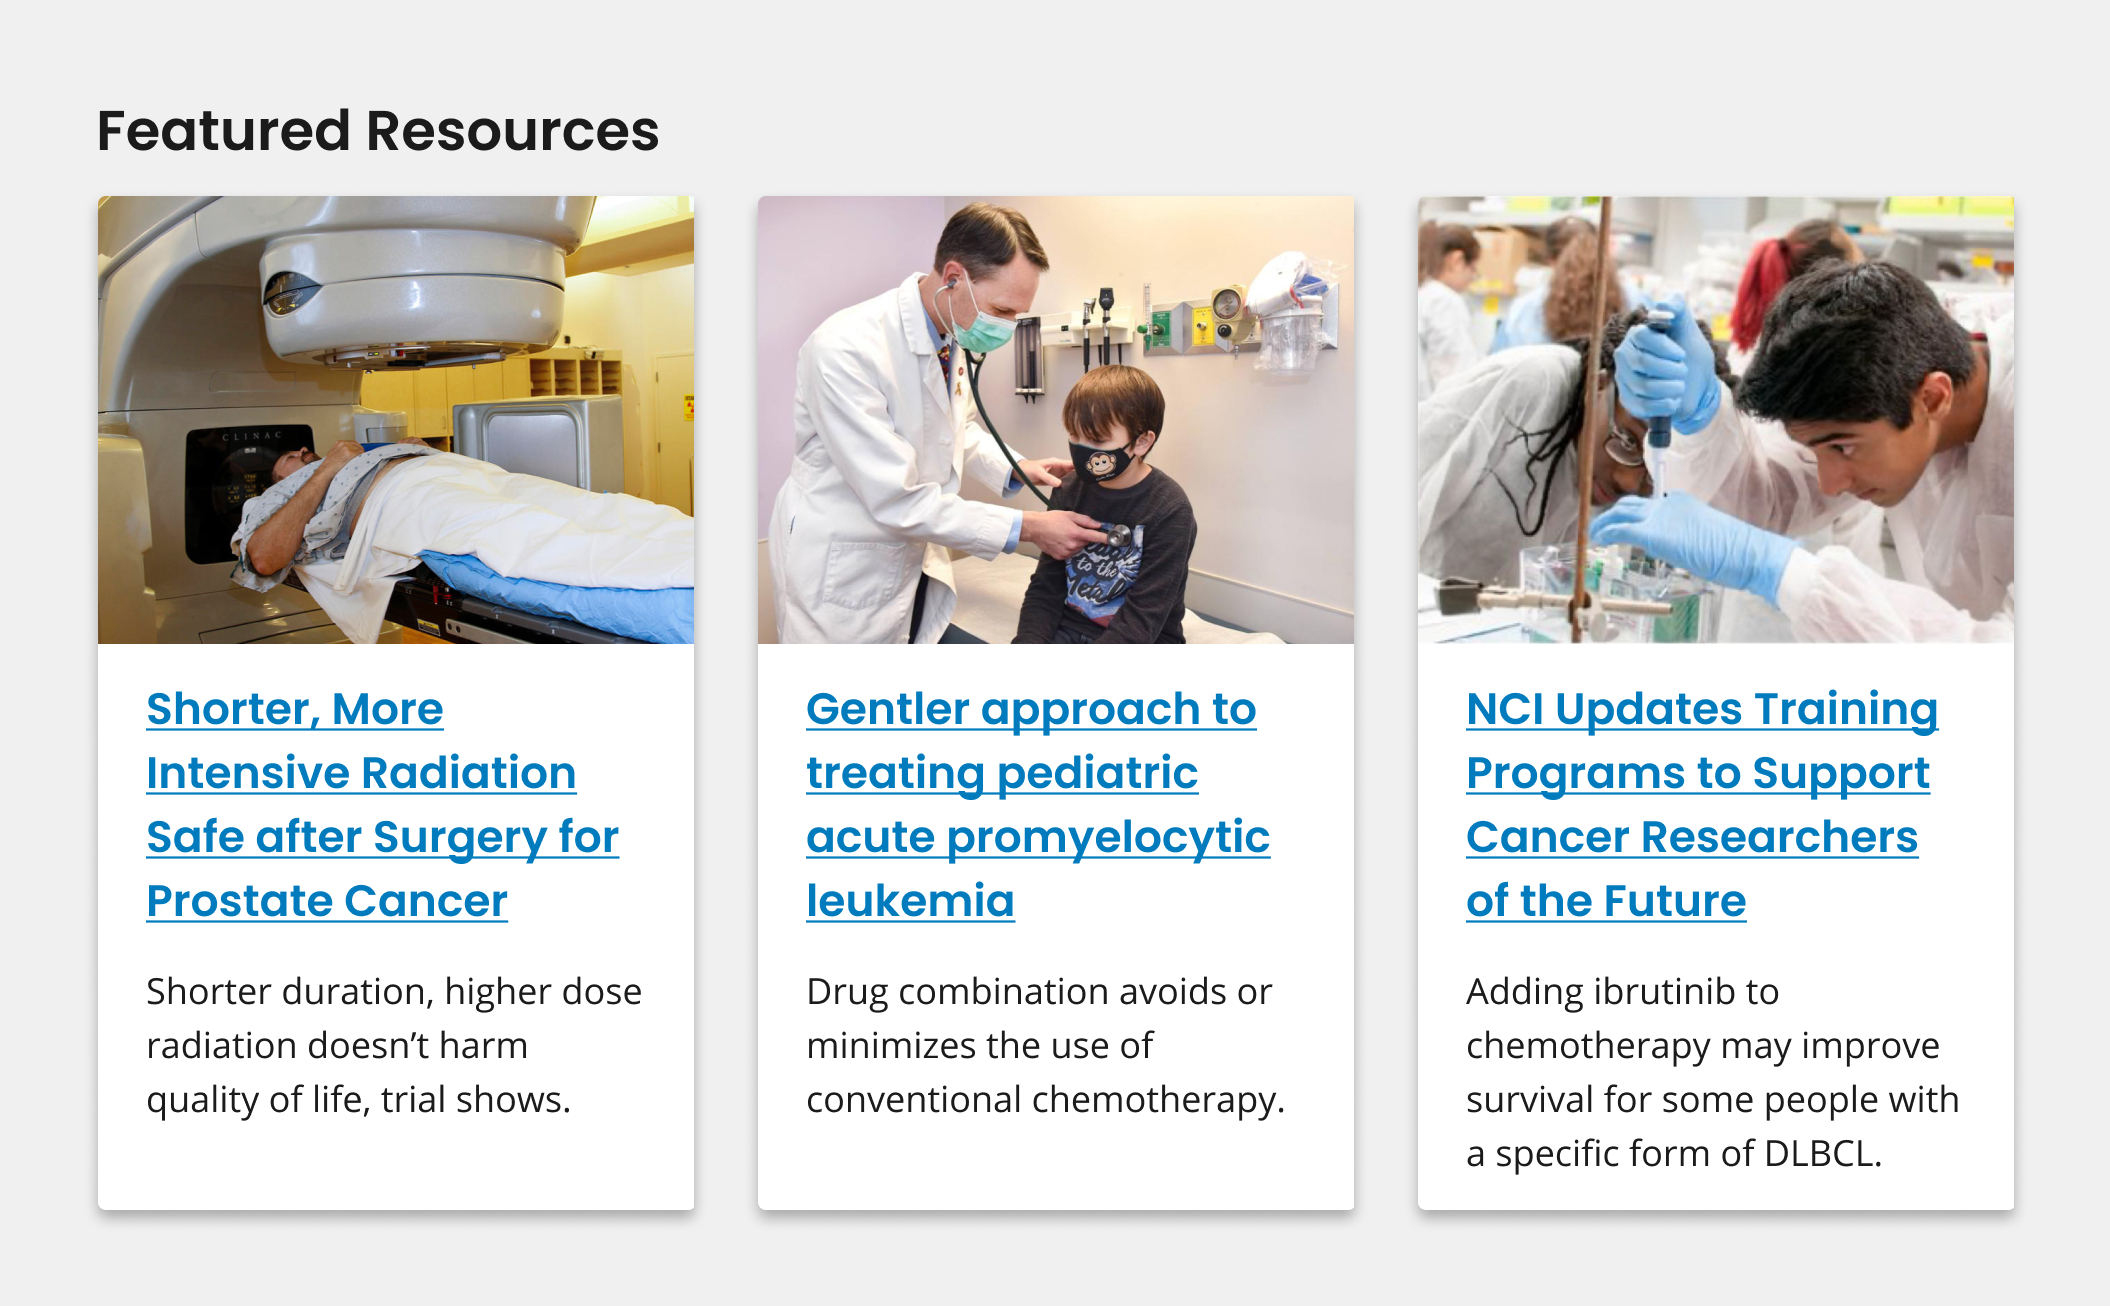
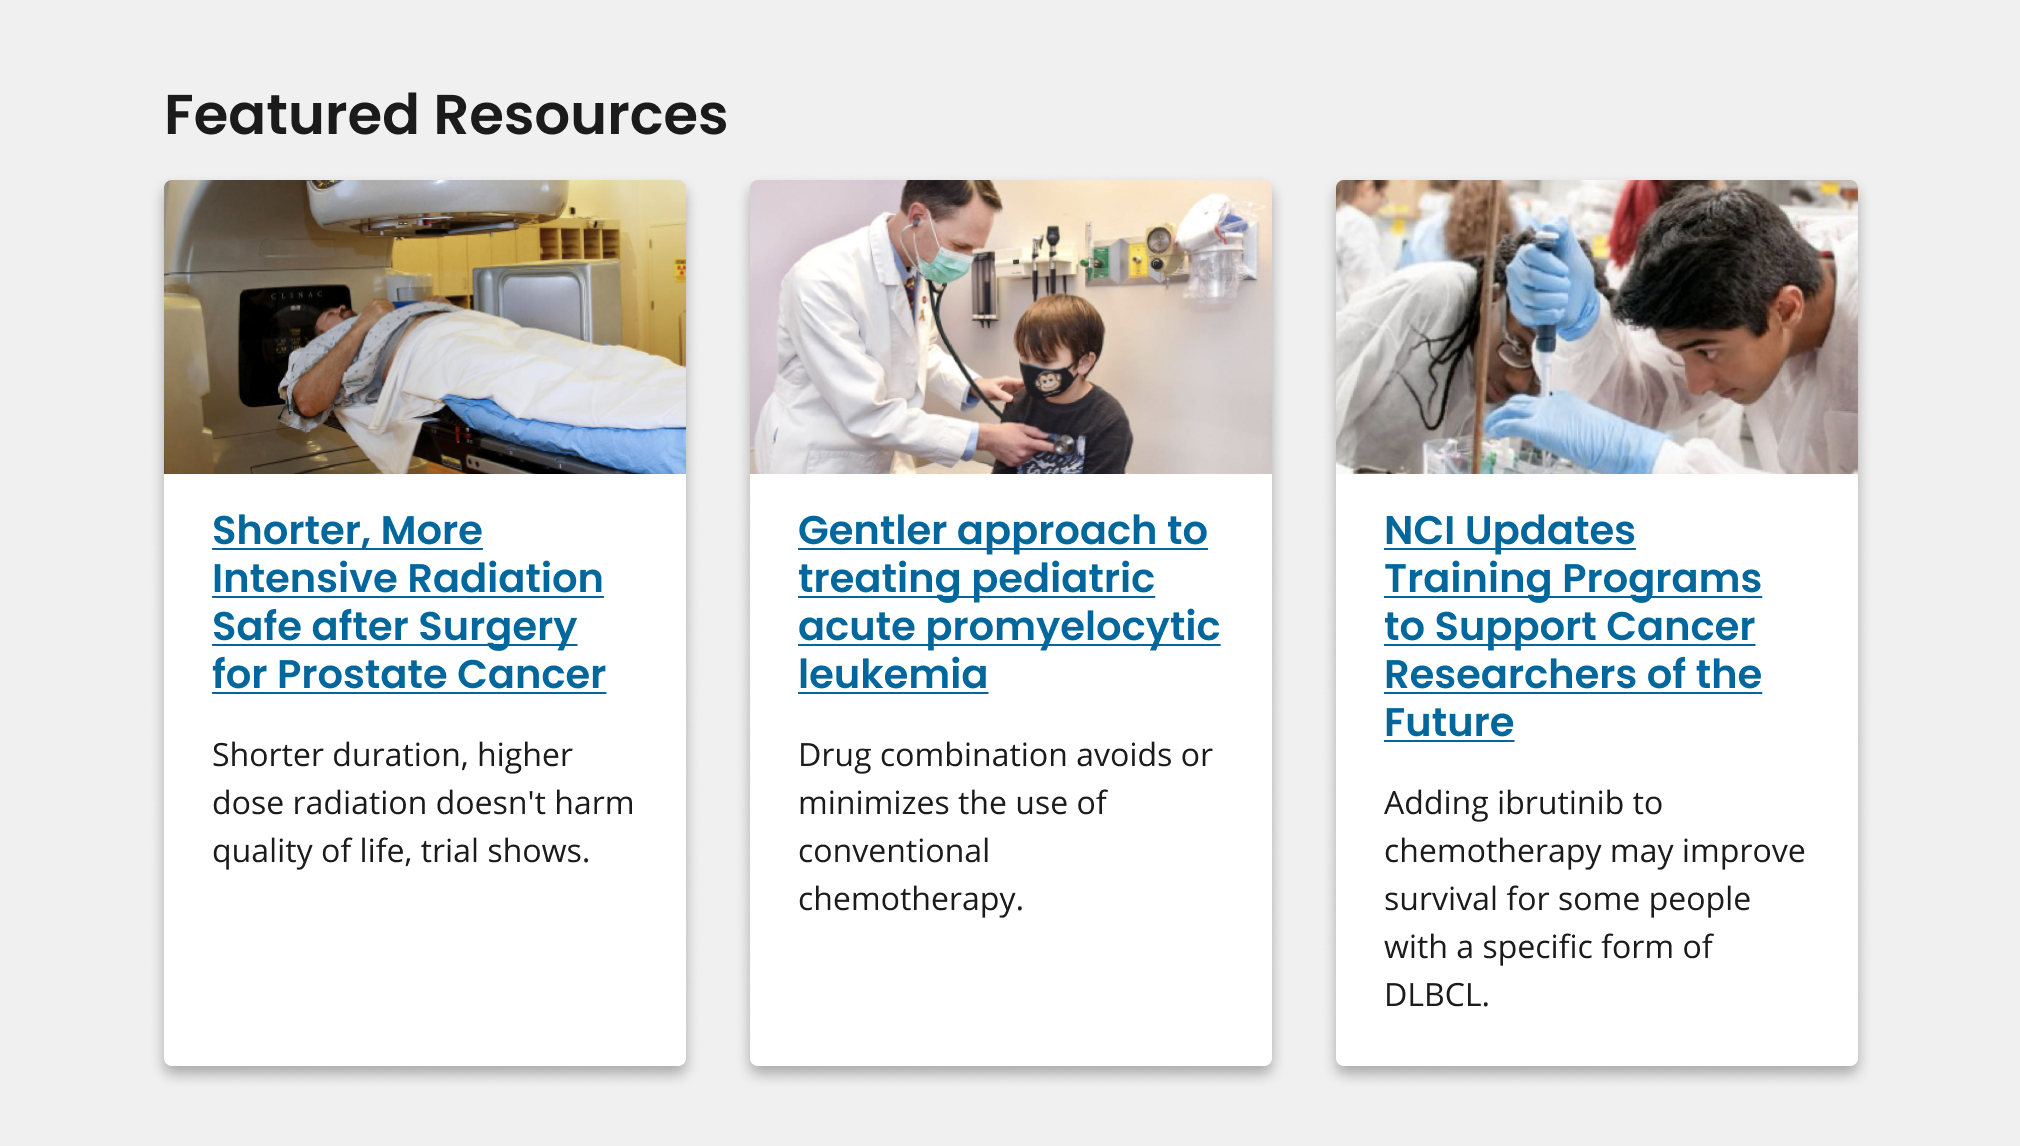
(#1839) Card font size change
Closes #1839

diff --git a/packages/ncids-css/packages/nci-card/internal/_nci-card.scss b/packages/ncids-css/packages/nci-card/internal/_nci-card.scss
@@ -71,8 +71,7 @@
 		@include u-margin(0);
 		@include u-padding-bottom(2);
 		/* Fonts */
-		@include u-font('heading', 'lg');
-		@include u-line-height('heading', 4);
+		@include typeset($theme-nci-card-title-typeset);
 		@include typeset-link;
 		@include u-text('bold');
 
@@ -84,9 +83,8 @@
 		}
 	}
 	&__description {
-		@include u-font('sans', 'sm');
+		@include typeset($theme-nci-card-description-typeset);
 		@include u-text($theme-color-base-ink);
-		@include u-line-height('body', 4);
 		@include u-margin(0);
 	}
 }
